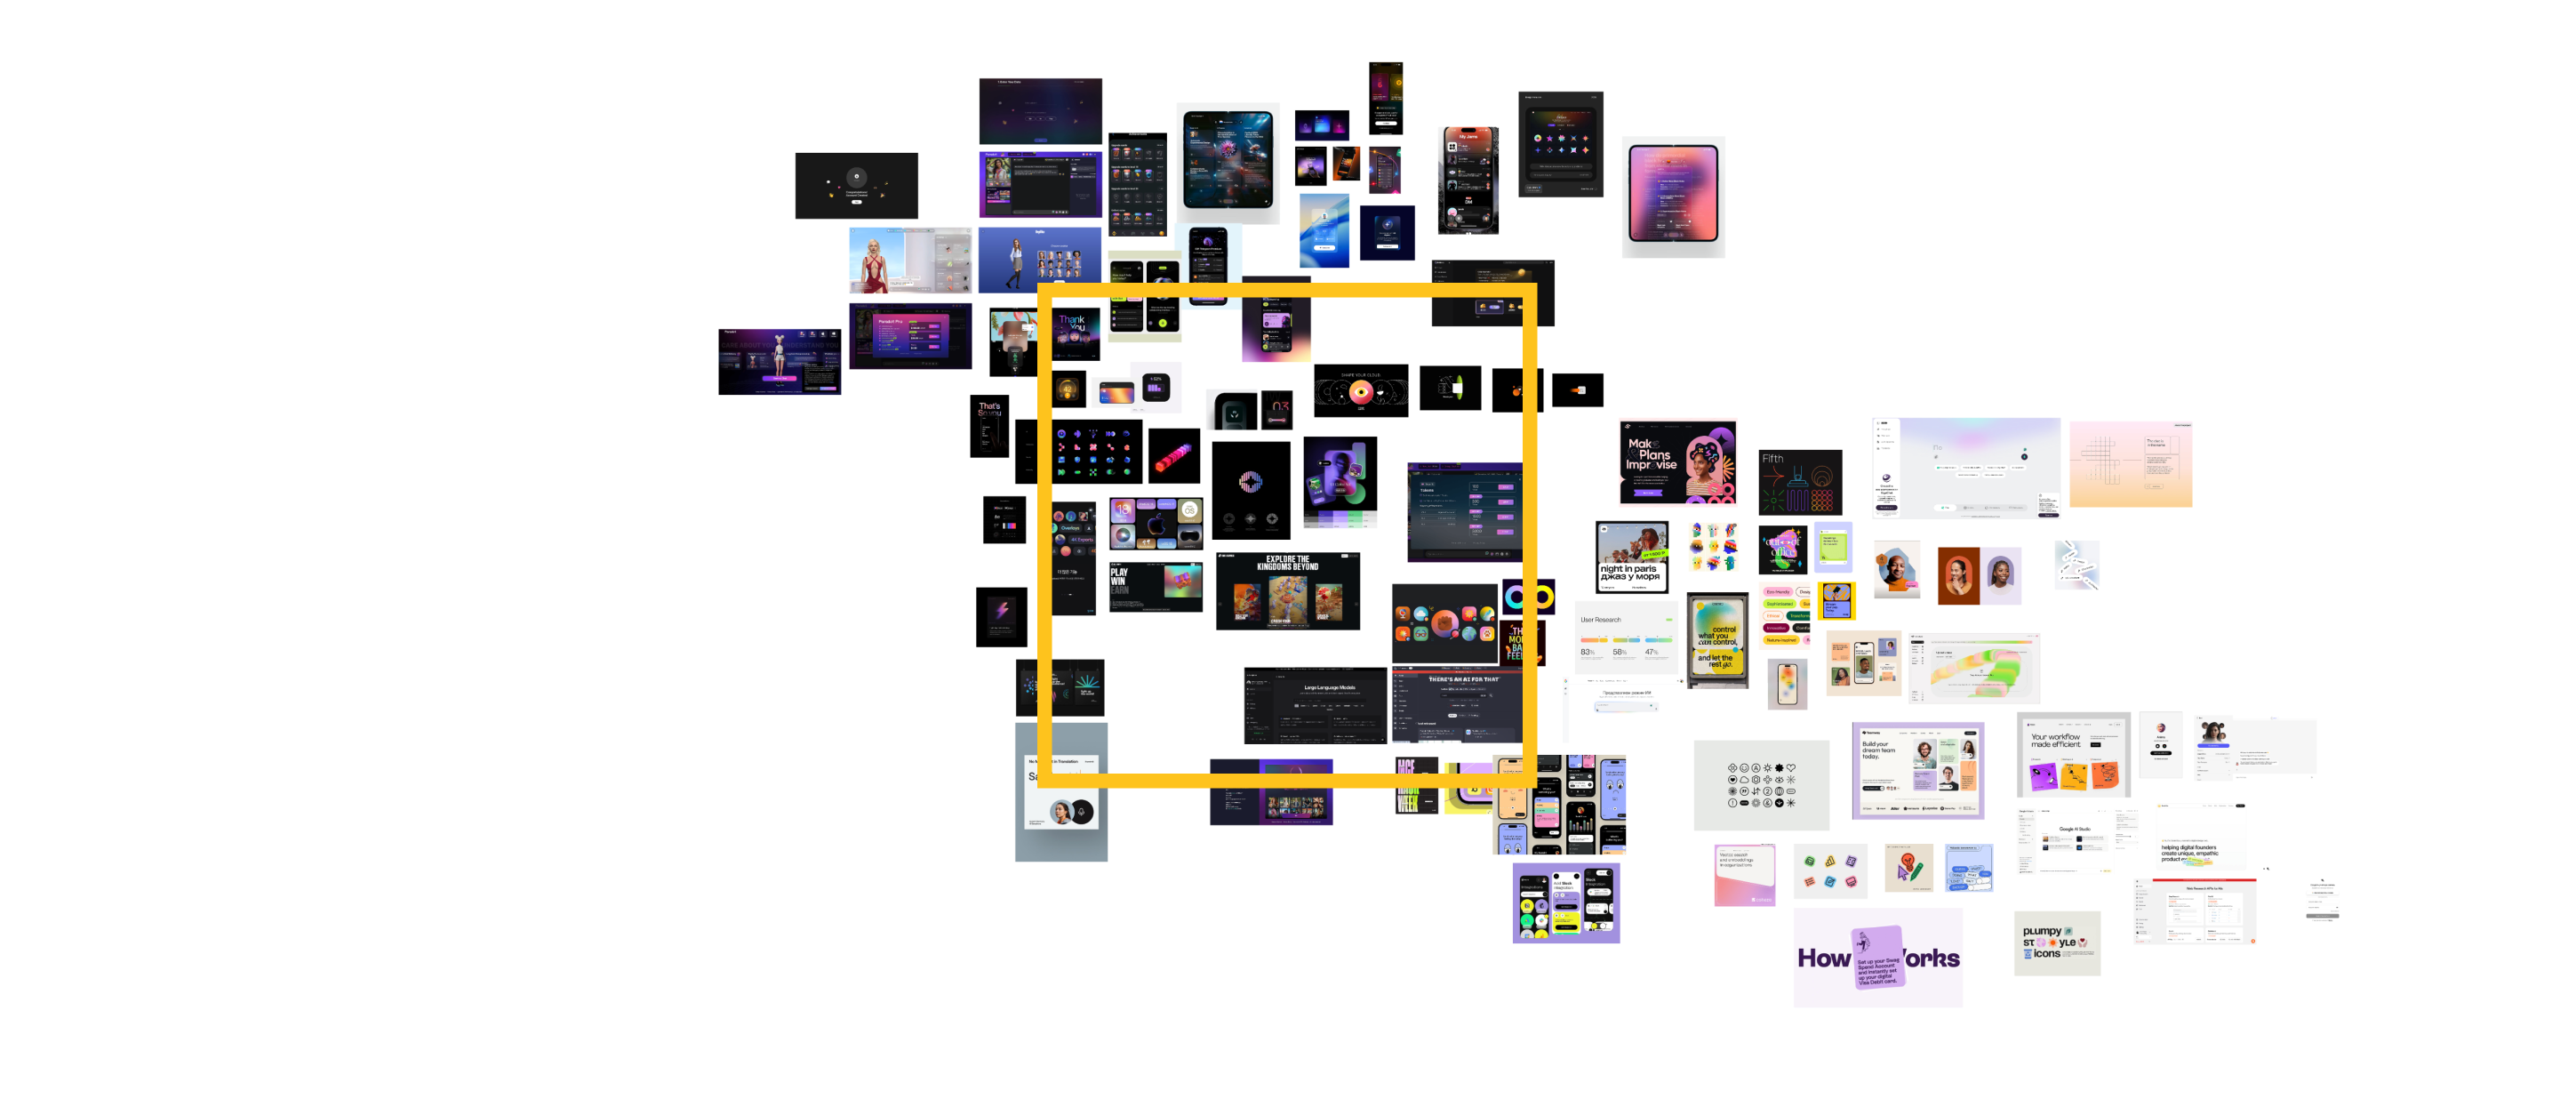
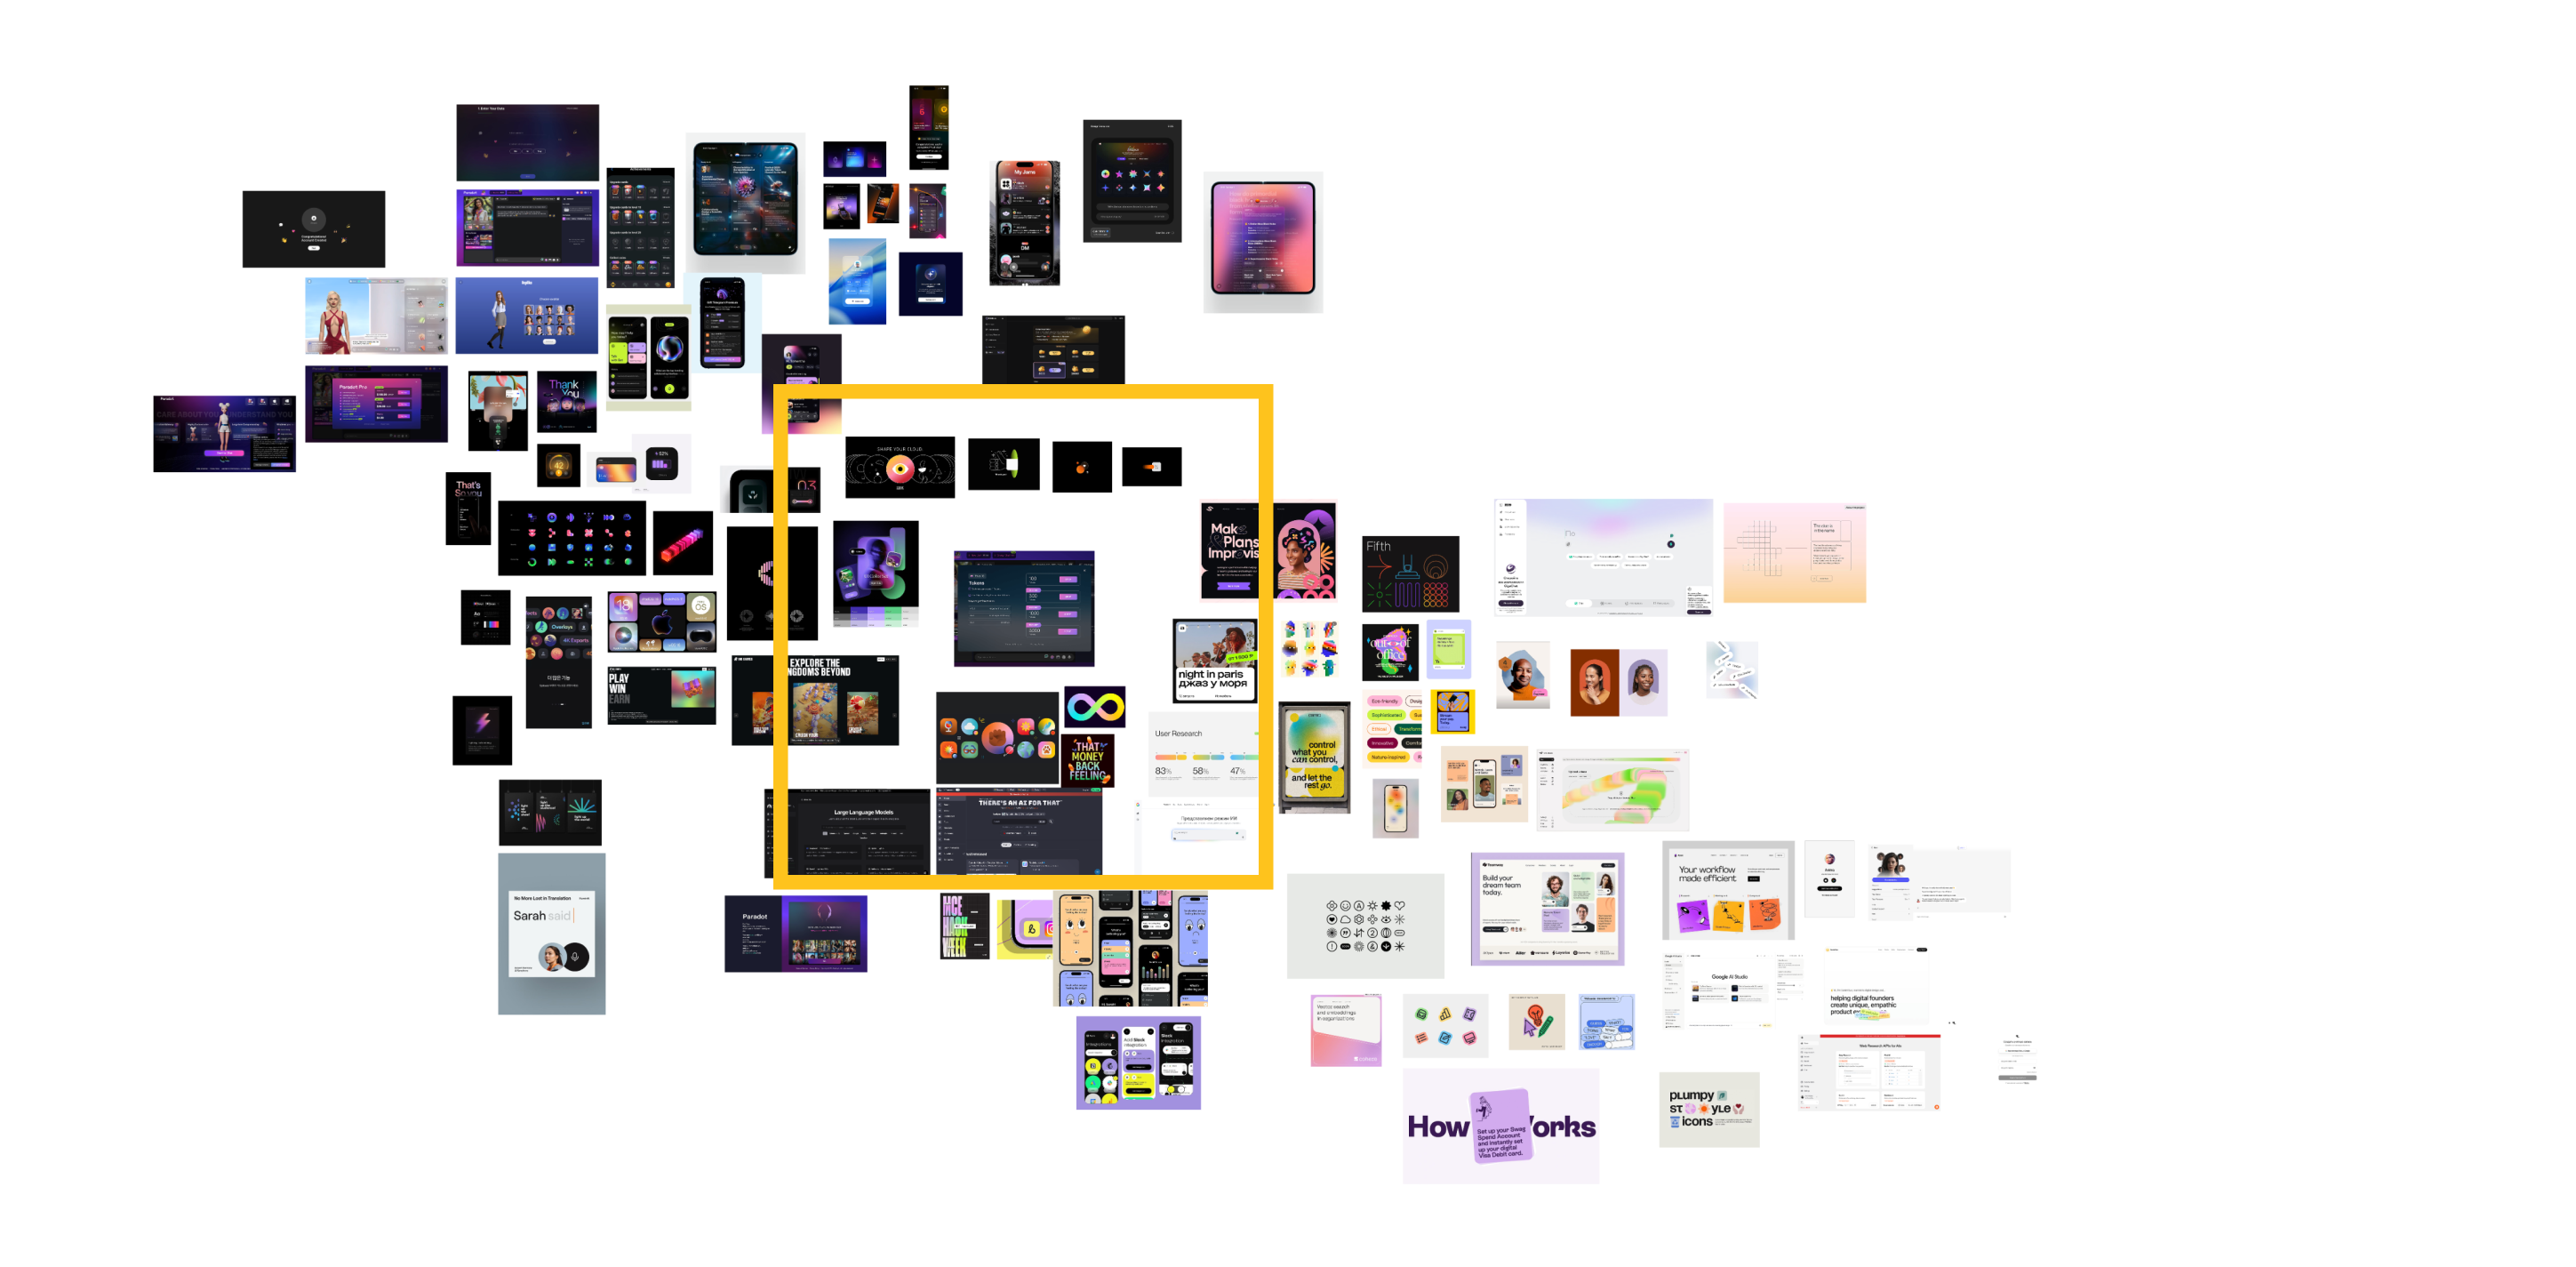
-

Changed region(s): [[0.0621, 0.061, 0.8696, 0.9157], [0.8385, 0.7631, 0.8696, 0.8241]]

diff --git a/avalike.html b/avalike.html
@@ -83,7 +83,7 @@
       pointer-events: none;
       opacity: 0;
       transform: translate(-50%, -50%);
-      z-index: 10001;
+      z-index: 9998;
       overflow: hidden;
       white-space: nowrap;
       transition: opacity 0.15s ease, transform 0.15s ease, width 0.18s ease, height 0.18s ease, background-color 0.18s ease;

diff --git a/mendi.html b/mendi.html
@@ -84,7 +84,7 @@
       pointer-events: none;
       opacity: 0;
       transform: translate(-50%, -50%);
-      z-index: 10001;
+      z-index: 9998;
       overflow: hidden;
       white-space: nowrap;
       transition: opacity 0.15s ease, transform 0.15s ease, width 0.18s ease, height 0.18s ease, background-color 0.18s ease;

diff --git a/skillshare.html b/skillshare.html
@@ -73,7 +73,7 @@
       pointer-events: none;
       opacity: 0;
       transform: translate(-50%, -50%);
-      z-index: 10001;
+      z-index: 9998;
       overflow: hidden;
       white-space: nowrap;
       transition: opacity 0.15s ease, transform 0.15s ease, width 0.18s ease, height 0.18s ease, background-color 0.18s ease;